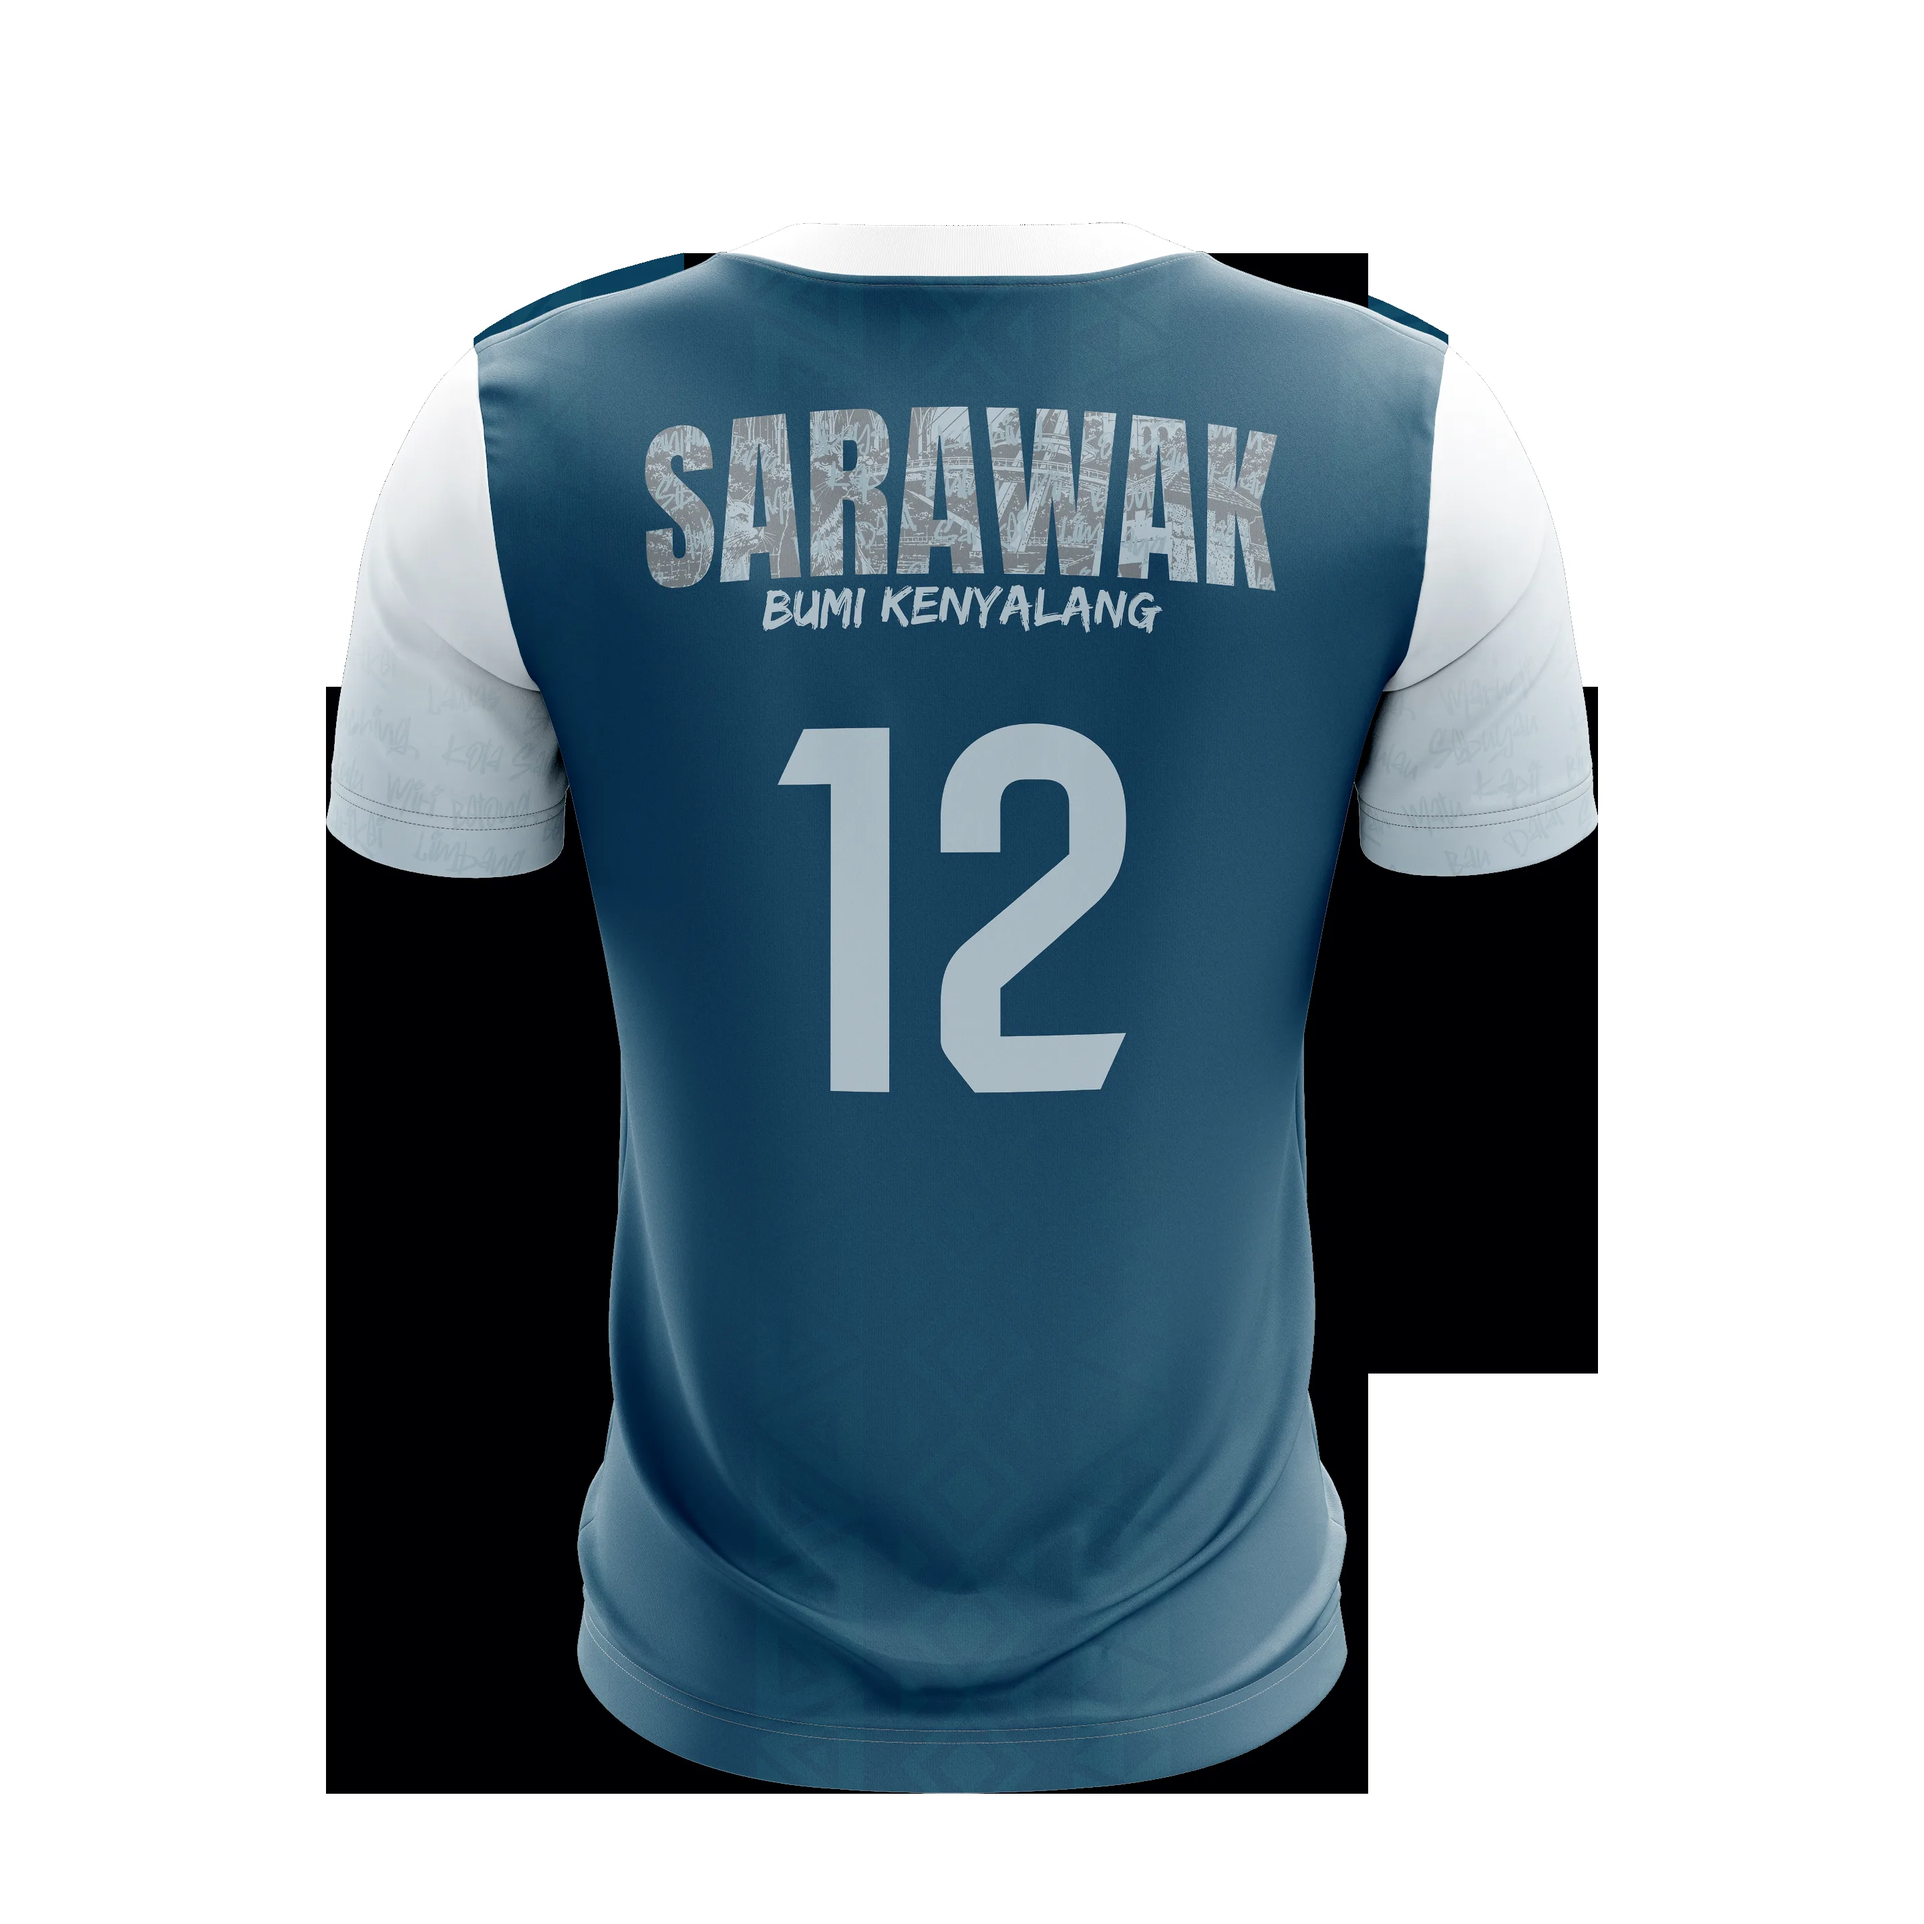
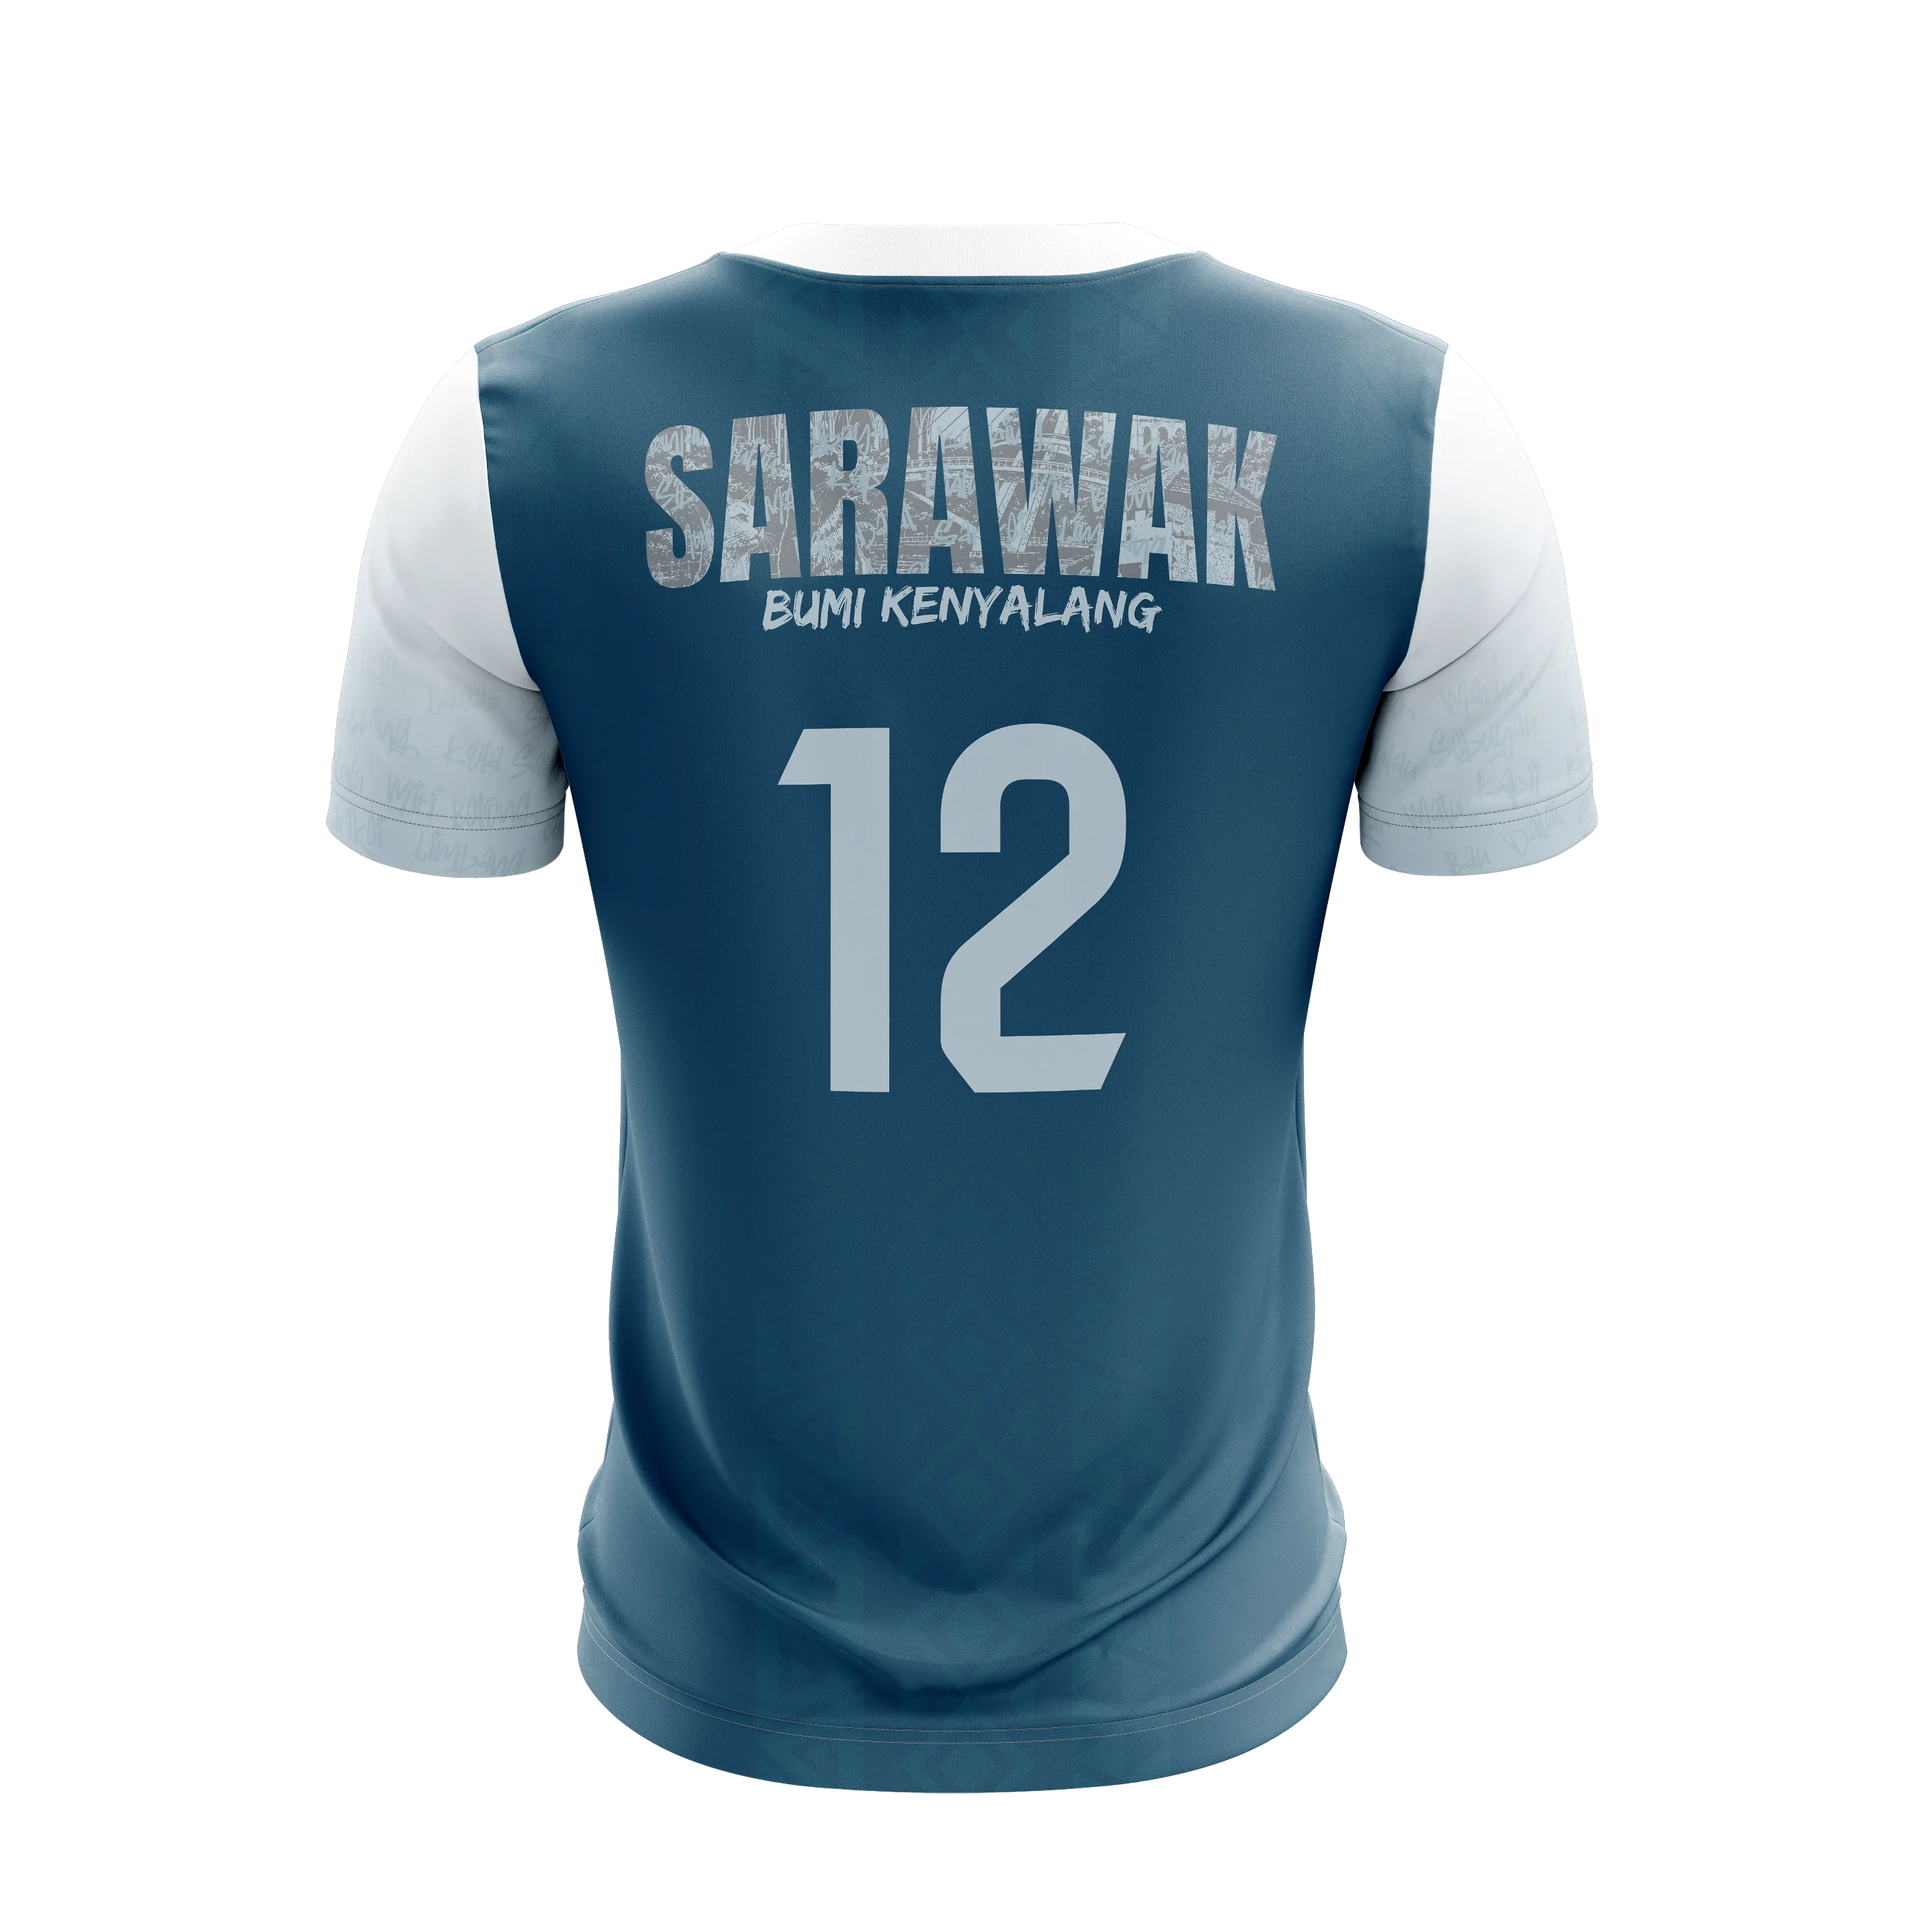
Fix apparel blue artifacts (preserve alpha) and prevent image cropping (object-fit contain)

diff --git a/styles.css b/styles.css
@@ -162,9 +162,9 @@ button { color: inherit; font: inherit; }
 .gallery-track::-webkit-scrollbar { height: 6px; }
 .gallery-track::-webkit-scrollbar-thumb { background: rgba(241,240,234,.25); border-radius: 3px; }
 .gallery-track::-webkit-scrollbar-track { background: transparent; }
-.gallery-item { flex: 0 0 auto; width: 280px; height: 100%; scroll-snap-align: center; display: flex; align-items: center; justify-content: center; overflow: hidden; background: #262626; transition: transform .45s cubic-bezier(.2,.8,.2,1), opacity .35s ease; border: 1px solid rgba(241,240,234,.08); }
+.gallery-item { flex: 0 0 auto; width: 280px; height: 100%; scroll-snap-align: center; display: flex; align-items: center; justify-content: center; overflow: hidden; background: #1a1a1a; transition: transform .45s cubic-bezier(.2,.8,.2,1), opacity .35s ease; border: 1px solid rgba(241,240,234,.08); }
 .gallery-item:hover { transform: scale(1.02); }
-.gallery-item img { width: 100%; height: 100%; object-fit: cover; display: block; filter: saturate(.85) contrast(1.03); transition: filter .4s ease; }
+.gallery-item img { width: 100%; height: 100%; object-fit: contain; display: block; filter: saturate(.85) contrast(1.03); transition: filter .4s ease; }
 .gallery-item:hover img { filter: saturate(1) contrast(1); }
 .gallery-nav { position: absolute; bottom: 24px; left: 50%; transform: translateX(-50%); display: flex; gap: 8px; z-index: 2; }
 .gallery-arrow { display: grid; place-items: center; width: 48px; height: 48px; border: 1px solid rgba(241,240,234,.25); background: rgba(10,10,10,.7); color: var(--paper); font-size: 18px; cursor: pointer; transition: background .25s ease, color .25s ease, border-color .25s ease, transform .25s ease; -webkit-backdrop-filter: blur(8px); backdrop-filter: blur(8px); }
